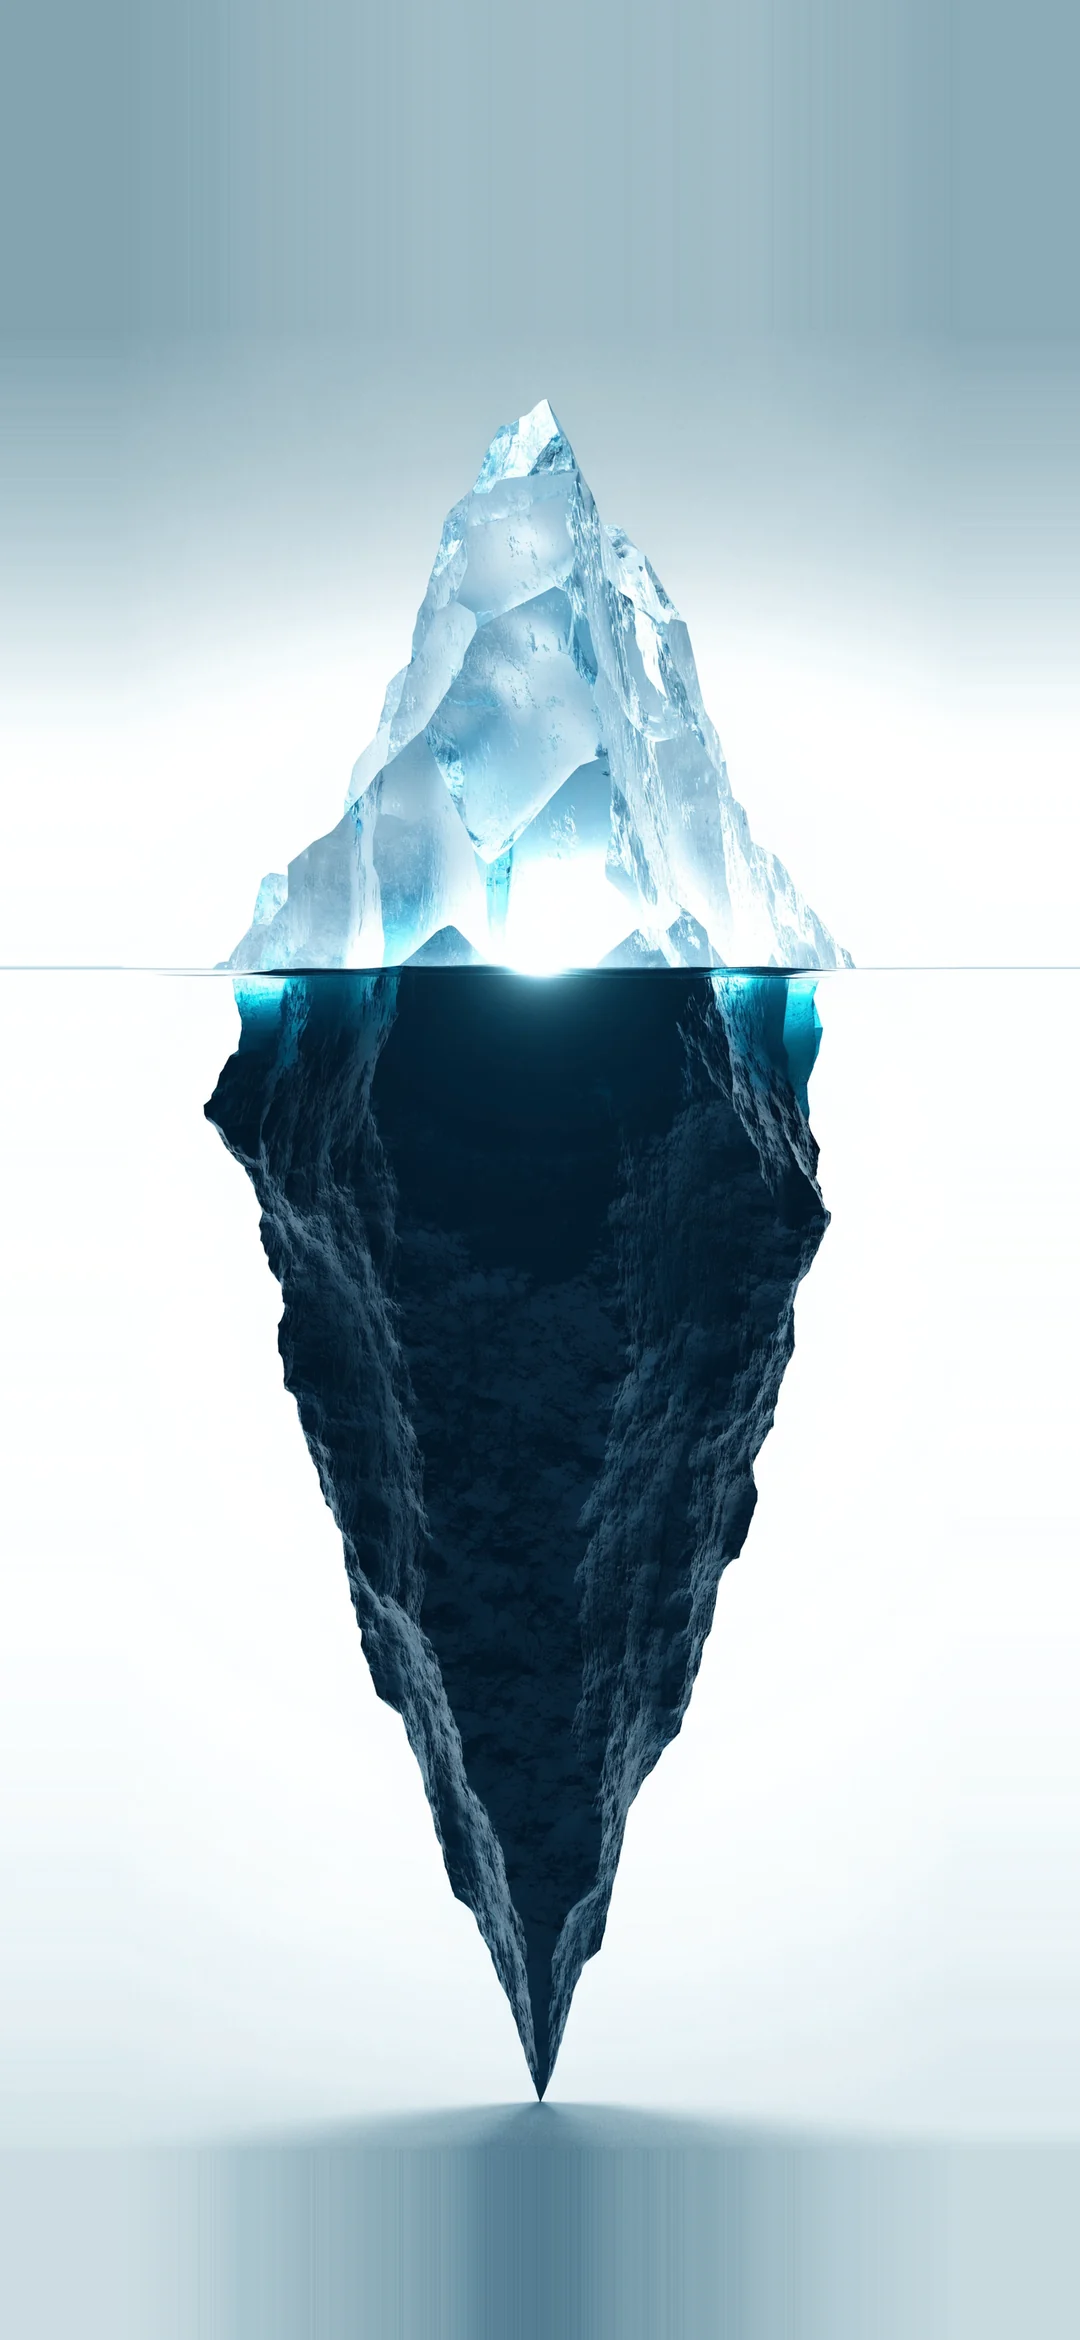
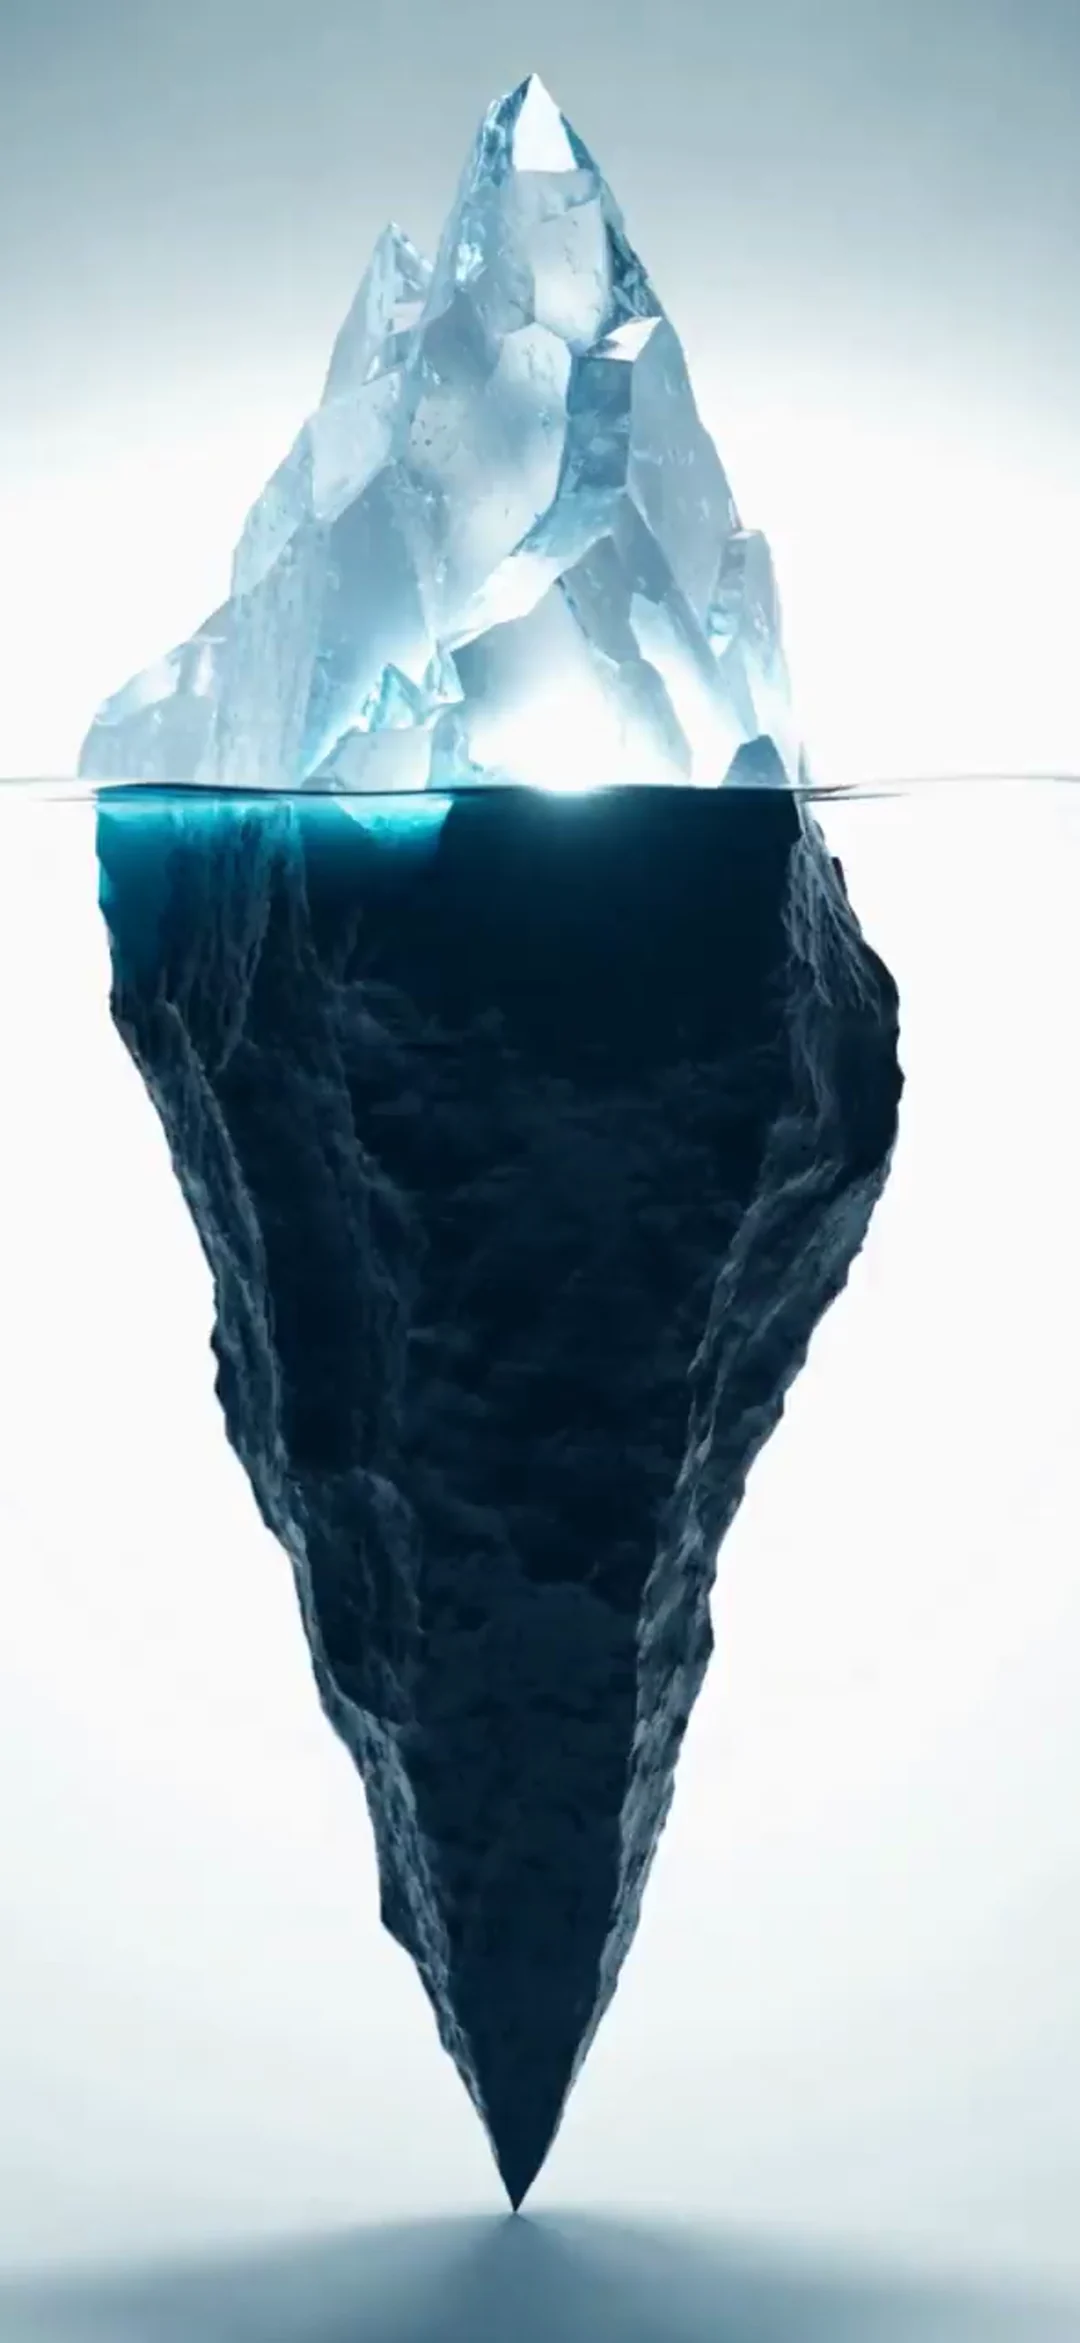
feat(mobile): l'iceberg tourne, et l'eau ondule avec lui
Sept secondes qui bouclent : l'iceberg pivote sur son axe, la surface de l'eau
ondule, dans les deux themes. La derniere seconde est fondue sur la premiere, la
boucle n'a donc pas de couture. L'image fixe reste et n'est plus un doublon :
c'est la PREMIERE IMAGE de l'animation, extraite au montage, donc la composition
ne saute pas au demarrage.

DEUX LECTEURS VIDEO ONT ETE ESSAYES PUIS ECARTES, chacun sur une mesure :

  `expo-video` embarque media3, dont le chargement natif s'ajoute au demarrage du
  processus. Trois lancements a froid, trois ANR « failed to complete startup » —
  l'application tuee avant d'avoir rien affiche. Differer le montage du lecteur
  n'y change rien : ces bibliotheques se chargent avant que le JS ne tourne. Le
  paquet est desinstalle, le binaire reconstruit sans lui, et l'ANR a disparu.

  `useVideo` de Skia s'appuie sur le decodeur de la plateforme et refuse en
  dessous d'Android 8 : « Skia Videos are only supported on API 26 and above ».
  Le projet est en minSdk 24, et relever le plancher de l'application pour un fond
  decoratif n'est pas un echange raisonnable.

Ce qui reste est une IMAGE ANIMEE decodee par Skia lui-meme, image par image :
aucun codec de plateforme, aucune dependance nouvelle, rien de neuf au demarrage,
aucun plancher d'API deplace. 892 et 1084 Ko, douze images par seconde — pour une
rotation aussi lente, la difference avec vingt-quatre ne se voit pas.
[…]

diff --git a/mobile/shared/src/ui/LuxeBackground.tsx b/mobile/shared/src/ui/LuxeBackground.tsx
@@ -1,42 +1,54 @@
-import React, { useEffect } from 'react';
+import React from 'react';
 import { StyleSheet, View, useWindowDimensions } from 'react-native';
-import { Canvas, Image, Rect, useImage } from '@shopify/react-native-skia';
-import { Easing, useDerivedValue, useSharedValue, withRepeat, withTiming } from 'react-native-reanimated';
+import { Canvas, Image, Rect, useAnimatedImageValue, useImage } from '@shopify/react-native-skia';
 import { colors } from '@/theme';
 import { useThemeColors } from '@/theme/useThemeColors';
 import { useReducedMotion } from './a11y';
 import { traduireMaintenant } from '@/i18n';
 
 /**
- * ICEBERG — le rendu de la planche « Volumétrique », posé tel quel.
+ * ICEBERG — le rendu de la planche « Volumétrique », qui tourne.
  *
- * POURQUOI UNE IMAGE ET NON UN MAILLAGE. Trois versions successives ont tenté de reconstruire cet
- * iceberg en géométrie : d'abord un maillage Skia à facettes, puis une crête à flèches. Aucune n'a
- * approché la planche, et aucune ne pouvait : ce qu'elle montre est un rendu photoréaliste — glace
- * cristalline translucide, diffusion sous la surface, quille rocheuse presque noire, caustiques à
- * la surface de l'eau. Passer à three.js n'y aurait rien changé : il aurait fallu un modèle 3D
- * sculpté, des matériaux et une HDRI, c'est-à-dire produire ce rendu-là de toute façon. Le vrai
- * « copier/coller » d'un rendu, c'est le rendu.
+ * POURQUOI UNE VIDÉO ET NON UNE ANIMATION. L'objet est un rendu photoréaliste : le faire tourner
+ * demande de nouvelles faces, pas une transformation de l'image existante. Une image qu'on incline
+ * ou qu'on étire ne tourne pas, elle se déforme, et le maillage a été essayé trois fois sans
+ * jamais atteindre la planche. Ce qui tourne ici est donc le rendu lui-même : sept secondes qui
+ * bouclent, l'iceberg pivote sur son axe et la surface de l'eau ondule avec lui.
  *
- * DEUX IMAGES, UN SEUL OBJET. Le même iceberg, éclairé deux fois : au-dessus de la ligne de
- * flottaison en clair, vu de dessous à travers les caustiques en sombre. 142 et 128 Ko.
+ * POURQUOI UNE IMAGE ANIMÉE ET NON UNE VIDÉO. Deux lecteurs ont été essayés puis écartés, et
+ * chacun a laissé une trace mesurée :
  *
- * CE QUI BOUGE. La planche fait tourner le modèle sur son axe ; une image ne tourne pas. Elle
- * DÉRIVE — une lente respiration verticale, aller et retour, sur une minute. Le mouvement réduit
- * la fige, et l'image de repos est une composition valide.
+ *   `expo-video` embarque media3, dont le chargement natif s'ajoute au démarrage du processus —
+ *   trois lancements à froid, trois ANR « failed to complete startup », l'application tuée avant
+ *   d'avoir rien affiché. Différer le montage du lecteur n'y change rien : ces bibliothèques se
+ *   chargent avant que le JS ne tourne.
+ *
+ *   `useVideo` de Skia s'appuie sur le décodeur de la plateforme et refuse en dessous d'Android 8 :
+ *   « Skia Videos are only supported on API 26 and above ». Le projet est en minSdk 24, et relever
+ *   le plancher de l'application pour un fond décoratif n'est pas un échange raisonnable.
+ *
+ * Une image ANIMÉE, elle, est décodée par Skia lui-même, image par image, sans codec de plateforme
+ * et sans dépendance nouvelle. Un seul moteur de rendu, rien de neuf au démarrage, aucun plancher
+ * d'API déplacé. C'est douze images par seconde plutôt que vingt-quatre — pour une rotation aussi
+ * lente, la différence ne se voit pas.
+ *
+ * LA BOUCLE EST SANS COUTURE. La dernière seconde est fondue sur la première : sans ce
+ * recouvrement, le saut de fin de boucle se voit une fois toutes les sept secondes, et c'est le
+ * genre de défaut qu'on ne remarque qu'après l'avoir vu une fois — puis qu'on ne peut plus ignorer.
+ *
+ * L'IMAGE FIXE RESTE, ET N'EST PAS UN DOUBLON. Elle est la PREMIÈRE IMAGE de la vidéo, extraite au
+ * montage : elle couvre le temps du décodage sans que la composition ne saute, et elle est ce
+ * qu'on voit quand le mouvement est réduit — là, aucune vidéo n'est ouverte du tout.
  *
  * CE QU'IL FAUT POUR LE VOIR : Skia s'installe par des liaisons natives, absentes d'Expo Go. Il
  * faut un development build (`npx expo run:android`).
  */
 
-/** Une respiration complète, aller et retour. */
-const PERIODE = 30000;
-
-/** L'amplitude de la dérive, en part de la hauteur d'écran. Au-delà, on voit l'image glisser. */
-const DERIVE = 0.014;
-
 const ICEBERG_CLAIR = require('../../assets/iceberg-clair.webp');
 const ICEBERG_SOMBRE = require('../../assets/iceberg-sombre.webp');
+
+const ROTATION_CLAIRE = require('../../assets/rotation-clair.webp');
+const ROTATION_SOMBRE = require('../../assets/rotation-sombre.webp');
 
 export function LuxeBackground() {
   const { isDark } = useThemeColors();
@@ -44,33 +56,6 @@ export function LuxeBackground() {
   const { width, height } = useWindowDimensions();
 
   const image = useImage(isDark ? ICEBERG_SOMBRE : ICEBERG_CLAIR);
-  const respiration = useSharedValue(0);
-
-  useEffect(() => {
-    if (mouvementReduit) {
-      respiration.value = 0;
-
-      return;
-    }
-
-    respiration.value = withRepeat(
-      withTiming(1, { duration: PERIODE, easing: Easing.inOut(Easing.sin) }),
-      -1,
-      true,
-    );
-  }, [mouvementReduit, respiration]);
-
-  /*
-   * CADRAGE « COUVRIR », CALCULÉ ICI ET NON DÉLÉGUÉ À `fit`.
-   *
-   * `fit="cover"` recadre au plus juste : il ne reste alors aucune marge, et la dérive ferait
-   * apparaître une bande vide en haut ou en bas. On dessine donc un peu plus grand que l'écran, et
-   * la dérive se promène dans cette marge.
-   */
-  const marge = height * DERIVE * 2;
-  const hauteurDessinee = height + marge * 2;
-
-  const y = useDerivedValue(() => -marge - (respiration.value - 0.5) * marge);
 
   const fond = isDark ? colors.mode.iceberg.immerge.abysse : colors.mode.iceberg.emerge.page;
 
@@ -93,16 +78,41 @@ export function LuxeBackground() {
         <Rect x={0} y={0} width={width} height={height} color={fond} />
 
         {image ? (
-          <Image
-            image={image}
-            x={0}
-            y={y}
-            width={width}
-            height={hauteurDessinee}
-            fit="cover"
-          />
+          <Image image={image} x={0} y={0} width={width} height={height} fit="cover" />
         ) : null}
+
+        {mouvementReduit ? null : (
+          /*
+            LA CLÉ FORCE UN DÉCODEUR NEUF À CHAQUE THÈME.
+
+            `useAnimatedImageValue` garde le sien pour la durée de vie du composant : changer la
+            source ne le relance pas. Sans cette clé, basculer en sombre laissait l'animation
+            CLAIRE tourner derrière des cartes sombres — mesuré à l'écran, et invisible aux tests
+            puisque le composant rendait bien quelque chose.
+          */
+          <RotationDeLIceberg
+            key={isDark ? 'nuit' : 'jour'}
+            sombre={isDark}
+            largeur={width}
+            hauteur={height}
+          />
+        )}
       </Canvas>
     </View>
   );
+}
+
+/** La couche animée. Isolée pour que sa clé puisse remonter un décodeur neuf. */
+function RotationDeLIceberg({
+  sombre,
+  largeur,
+  hauteur,
+}: {
+  sombre: boolean;
+  largeur: number;
+  hauteur: number;
+}) {
+  const rotation = useAnimatedImageValue(sombre ? ROTATION_SOMBRE : ROTATION_CLAIRE);
+
+  return <Image image={rotation} x={0} y={0} width={largeur} height={hauteur} fit="cover" />;
 }

diff --git a/mobile/provider/__tests__/theme/LuxeBackground.test.tsx b/mobile/provider/__tests__/theme/LuxeBackground.test.tsx
@@ -17,24 +17,13 @@ const mockScheme = { colorScheme: 'dark' as 'dark' | 'light', mode: 'dark', setM
 let mockMouvementReduit = false;
 
 jest.mock('@/theme/useColorScheme', () => ({ useColorScheme: () => mockScheme }));
+
+
 jest.mock('@/ui/a11y', () => ({
   useReducedMotion: () => mockMouvementReduit,
   useScreenReader: () => false,
   a11y: {},
 }));
-
-/*
- * On garde tout Reanimated, on n'espionne que `withRepeat` : c'est le seul appel qui décide si
- * une boucle infinie démarre. Le remplacer par un faux complet ferait échouer le rendu, et
- * mesurer l'absence de boucle sur un composant qui ne rend pas ne prouverait rien.
- */
-jest.mock('react-native-reanimated', () => {
-  const vrai = jest.requireActual('react-native-reanimated');
-
-  return { ...vrai, withRepeat: jest.fn((...args: unknown[]) => vrai.withRepeat(...args)) };
-});
-
-import { withRepeat } from 'react-native-reanimated';
 
 import { LuxeBackground } from '@/ui/LuxeBackground';
 
@@ -49,7 +38,6 @@ describe('LuxeBackground', () => {
   beforeEach(() => {
     mockScheme.colorScheme = 'dark';
     mockMouvementReduit = false;
-    (withRepeat as jest.Mock).mockClear();
   });
 
   /*
@@ -124,30 +112,39 @@ describe('LuxeBackground', () => {
    * continue de tourner passerait au vert, en consommant la batterie d'un prestataire toute la
    * journée. Ici on regarde si la boucle infinie est seulement lancée.
    */
-  it('ne lance AUCUNE boucle quand le mouvement est réduit', () => {
+  /**
+   * LE MOUVEMENT N'EST PLUS UNE BOUCLE, C'EST UNE VIDEO — et l'interrupteur a change avec lui.
+   *
+   * L'iceberg tourne : une image ne tourne pas, un maillage n'y arrivait pas. Ce qui doit s'arreter
+   * sous mouvement reduit n'est donc plus un `withRepeat` mais le LECTEUR lui-meme. Ne pas le
+   * mettre en pause suffirait a l'ecran, pas a la batterie : c'est la SOURCE qu'on annule, de sorte
+   * qu'aucun lecteur ne soit monte et qu'aucun fichier ne soit decode.
+   */
+  /**
+   * LE MOUVEMENT N'EST PLUS UNE BOUCLE, C'EST UNE IMAGE ANIMÉE — et l'interrupteur a suivi.
+   *
+   * Ce qui doit s'arrêter sous mouvement réduit n'est pas l'affichage mais le DÉCODAGE : la source
+   * passée à Skia devient nulle, de sorte qu'aucune image n'est décodée. Le composant l'annonce
+   * dans son étiquette, et c'est ce que ce test lit — la seule trace observable, une image Skia
+   * n'étant pas un nœud que Testing Library sait interroger.
+   */
+  it('annonce un fond sans animation quand le mouvement est réduit', () => {
     mockMouvementReduit = true;
 
     render(<LuxeBackground />);
 
-    expect(withRepeat).not.toHaveBeenCalled();
+    expect(screen.getByTestId('luxe-background', MASQUE).props.accessibilityLabel).toContain(
+      'sans animation',
+    );
   });
 
-  /** TÉMOIN : sans lui, un `withRepeat` cassé rendrait le test précédent vert pour rien. */
-  it('témoin : la boucle est bien lancée quand le mouvement est permis', () => {
+  /** TÉMOIN : sans lui, une étiquette figée sur « sans animation » passerait le test ci-dessus. */
+  it('témoin : le fond animé ne s annonce PAS comme figé', () => {
     render(<LuxeBackground />);
 
-    expect(withRepeat).toHaveBeenCalled();
-
-    /*
-     * SANS FIN, ET EN ALLER-RETOUR. C'était l'inverse tant que le fond était un maillage : il
-     * TOURNAIT, et une phase qui revient sur ses pas aurait fait tourner l'objet à l'envers une
-     * fois sur deux. Le fond est maintenant le rendu de la planche, qui ne tourne pas — il
-     * respire. Une respiration qui repartirait de zéro se verrait sauter à chaque cycle.
-     */
-    const [, repetitions, allerRetour] = (withRepeat as jest.Mock).mock.calls[0] ?? [];
-
-    expect(repetitions).toBe(-1);
-    expect(allerRetour).toBe(true);
+    expect(screen.getByTestId('luxe-background', MASQUE).props.accessibilityLabel).not.toContain(
+      'sans animation',
+    );
   });
 
   it('garde le même point de montage quel que soit le rendu', () => {

diff --git a/mobile/shared/src/testing/skiaImageAnimee.js b/mobile/shared/src/testing/skiaImageAnimee.js
@@ -1,0 +1,15 @@
+/**
+ * `useAnimatedImageValue` MANQUE AU FAUX DE SKIA.
+ *
+ * Le fichier de setup fourni par `@shopify/react-native-skia` remplace tout le module ; les
+ * exports qui dependent de Reanimated — dont celui-ci — n'y figurent pas, et le fond de
+ * l'application leve alors « is not a function » avant meme de rendre.
+ *
+ * On COMPLETE le faux plutot que de le remplacer : le reste de Skia reste celui du paquet, et une
+ * version future qui ajouterait la fonction reprendrait la main d'elle-meme.
+ */
+const Skia = require('@shopify/react-native-skia');
+
+if (typeof Skia.useAnimatedImageValue !== 'function') {
+  Skia.useAnimatedImageValue = () => null;
+}

diff --git a/mobile/provider/jest.config.ts b/mobile/provider/jest.config.ts
@@ -1,4 +1,5 @@
 import type { Config } from 'jest';
+import path from 'path';
 
 const config: Config = {
   preset: 'jest-expo',
@@ -29,6 +30,7 @@ const config: Config = {
     // fournit son propre fichier de mise en place ; sans lui, tout test qui touche au fond nuit
     // échoue sur « Native Skia Module failed to correctly install JSI Bindings ».
     require.resolve('@shopify/react-native-skia/jestSetup.js'),
+    path.resolve(__dirname, '../shared/src/testing/skiaImageAnimee.js'),
     // Le magasin sécurisé et le défaut « présentation déjà vue » — voir jest.setup.js.
     require.resolve('./jest.setup.js'),
   ],

diff --git a/mobile/client/jest.config.ts b/mobile/client/jest.config.ts
@@ -20,6 +20,7 @@ const config: Config = {
     // Bindings », y compris les écrans qui ne dessinent rien : le fond nuit est exporté depuis la
     // barrique `@/ui`, donc importé par transitivité.
     require.resolve('@shopify/react-native-skia/jestSetup.js'),
+    path.resolve(__dirname, '../shared/src/testing/skiaImageAnimee.js'),
   ],
   // react-test-renderer (used by @testing-library/react-native) is deprecated
   // under React 19 and leaves an async operation pending at the end of a run
